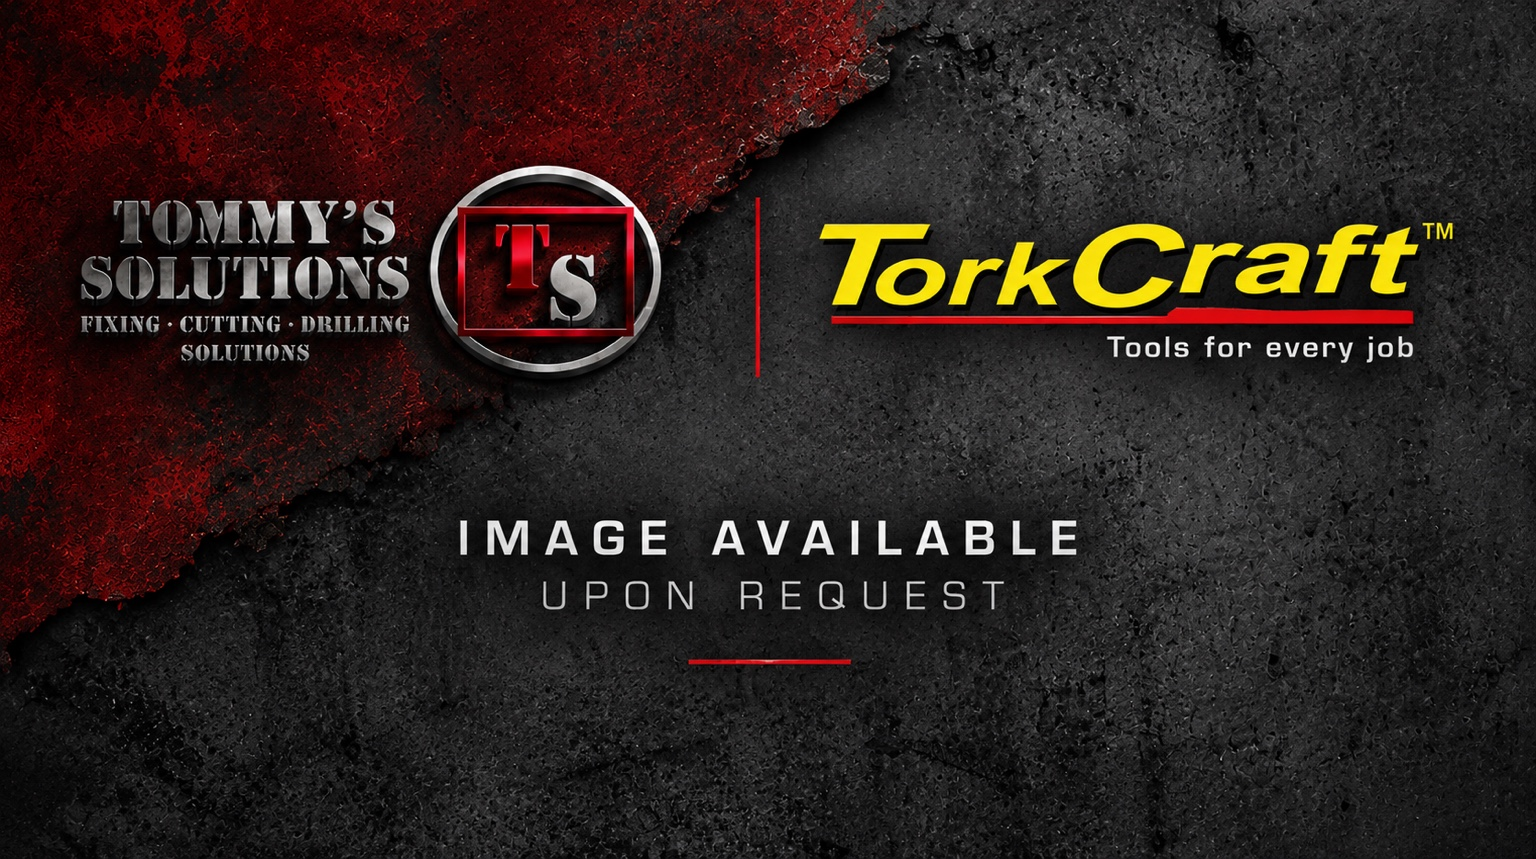
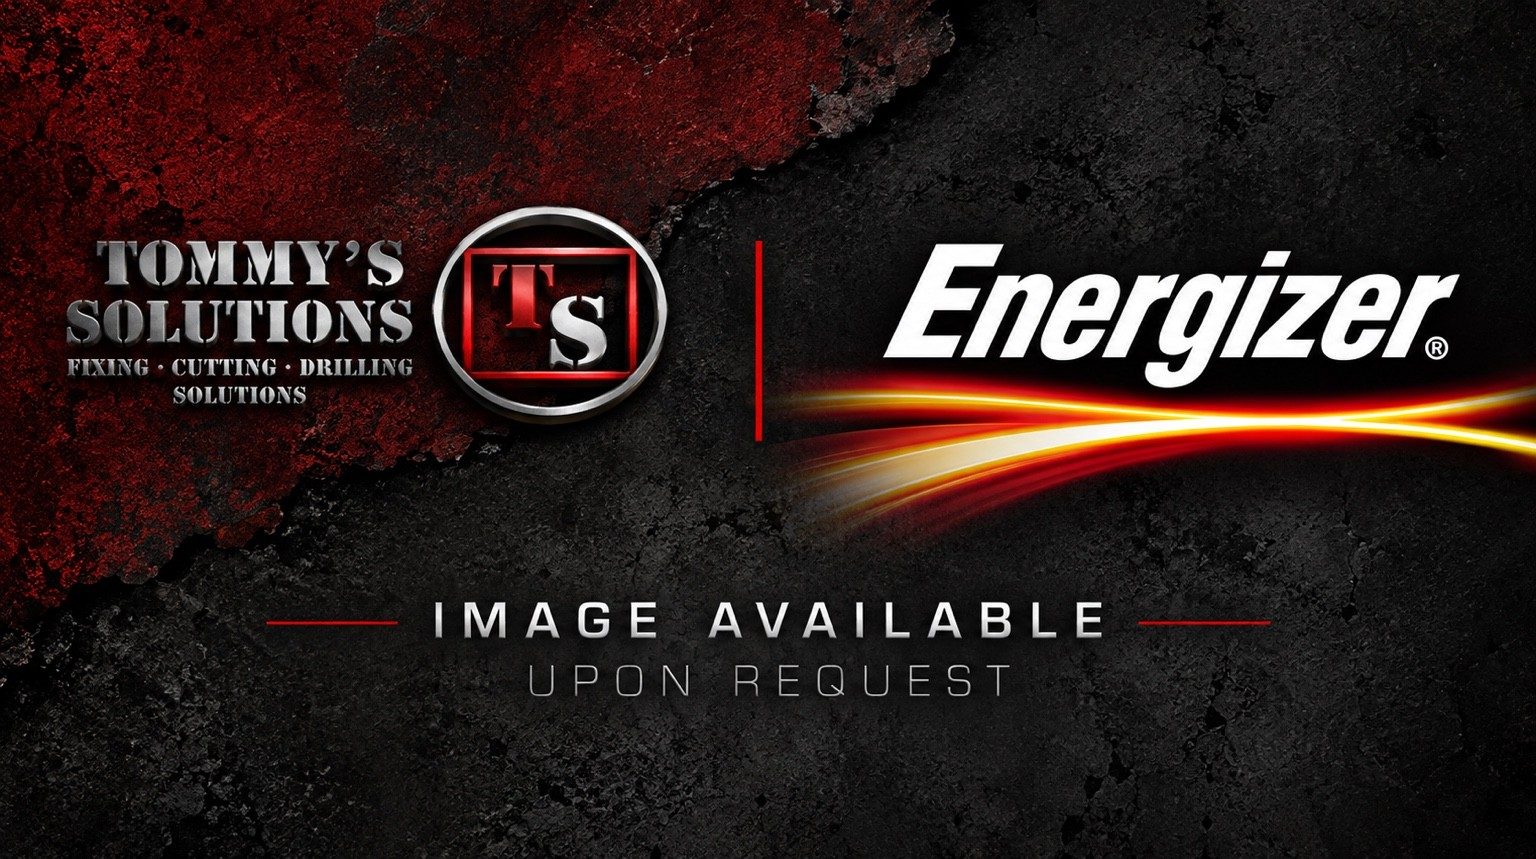
Add files via upload

diff --git a/index.html b/index.html
@@ -109,7 +109,7 @@ section{padding:90px 7%}.section-head{max-width:780px;margin-bottom:34px}h2{font
 
 <section id="catalogue" class="catalogue">
   <div class="section-head"><div class="eyebrow">Tork Craft 2026 catalogue</div><h2>Browse the <span>range</span></h2><p>Browse the Tork Craft 2026 catalogue. Search by product code, product family or specification, then enquire directly with Wian. No prices are shown.</p></div>
-  <div class="catalogue-switch" role="tablist"><button class="catalogue-tab active" data-brand="tork">TORK CRAFT <span>2026</span></button><button class="catalogue-tab" data-brand="energizer">ENERGIZER <span>2021</span></button></div><div class="catalogue-info"><strong id="catalogueTitle">5,000+ catalogue references</strong><span id="catalogueSubtitle">Search Tork Craft by product code, size or product family.</span></div>
+  <div class="catalogue-switch" role="tablist"><button class="catalogue-tab active" data-brand="tork">TORK CRAFT <span>2026</span></button><button class="catalogue-tab" data-brand="energizer">ENERGIZER <span>2021</span></button><button class="catalogue-tab" data-brand="howard">HOWARD <span>CATALOGUE</span></button></div><div class="catalogue-info"><strong id="catalogueTitle">5,000+ catalogue references</strong><span id="catalogueSubtitle">Search Tork Craft by product code, size or product family.</span></div>
   <div class="toolbar">
     <input class="search" id="search" type="search" placeholder="Search product code, size or description…" autocomplete="off">
     <select class="filter" id="filter"><option value="All">All categories</option></select>
@@ -122,7 +122,7 @@ section{padding:90px 7%}.section-head{max-width:780px;margin-bottom:34px}h2{font
 
 <section id="brands" class="brands">
   <div class="section-head"><div class="eyebrow">Brands & partners</div><h2>Brands you can <span>trust</span></h2><p>We can expand this section with your official brand logos and additional partner ranges.</p></div>
-  <div class="brands-row"><div class="brand">TORKCRAFT</div><div class="brand">ENERGIZER</div><div class="brand">FISCHER</div><div class="brand">AVLOCK</div></div>
+  <div class="brands-row"><div class="brand">TORKCRAFT</div><div class="brand">ENERGIZER</div><div class="brand">HOWARD</div><div class="brand">FISCHER</div><div class="brand">AVLOCK</div></div>
 </section>
 
 <section id="about" class="about">
@@ -159,7 +159,7 @@ const catalogueNote=document.getElementById('catalogueNote');
 
 function esc(v){return String(v??'').replace(/[&<>'"]/g,c=>({'&':'&amp;','<':'&lt;','>':'&gt;',"'":'&#39;','"':'&quot;'}[c]));}
 function productName(item){
-  if(activeBrand==='energizer') return item.product || item.description || 'Energizer Product';
+  if(activeBrand==='energizer' || activeBrand==='howard') return item.product || item.description || (activeBrand==='howard'?'Howard Product':'Energizer Product');
   const raw=String(item.specs || item.description || item.family || 'Tork Craft Product').trim();
   const code=String(item.code || '').trim();
   const cleaned=raw.replace(new RegExp('^'+code.replace(/[.*+?^${}()|[\]\\]/g,'\\$&')+'\\s*[-:]*\\s*','i'),'').trim();
@@ -183,12 +183,13 @@ function render(){
   count.textContent=total ? `Showing ${(currentPage-1)*perPage+1}–${Math.min(currentPage*perPage,total)} of ${total} products` : 'No products found';
   products.innerHTML=slice.map(item=>{
     const isE=activeBrand==='energizer';
-    const img=isE ? 'energizer-placeholder.jpg' : 'torkcraft-placeholder.jpg';
+    const isH=activeBrand==='howard';
+    const img=isE ? 'energizer-placeholder.jpg' : (isH ? 'howard-placeholder.jpg' : 'torkcraft-placeholder.jpg');
     const specs=item.specs || 'See catalogue for specifications';
     const code=item.code || '';
     return `<article class="product">
-      <div class="product-top"><span class="badge">${esc(isE?'ENERGIZER':(item.family||'TORK CRAFT'))}</span><span class="ref">#${esc(code)}</span></div>
-      <div class="product-photo ${isE?'energizer-photo':''}"><img loading="lazy" src="${img}" alt="${esc(isE?'Energizer image available upon request':'Tork Craft image available upon request')}" onerror="this.style.display='none';this.parentElement.classList.add('no-photo')"></div>
+      <div class="product-top"><span class="badge">${esc(isE?'ENERGIZER':(isH?'HOWARD':(item.family||'TORK CRAFT')))}</span><span class="ref">#${esc(code)}</span></div>
+      <div class="product-photo ${isE?'energizer-photo':(isH?'howard-photo':'')}"><img loading="lazy" src="${img}" alt="${esc(isE?'Energizer image available upon request':(isH?'Howard image available upon request':'Tork Craft image available upon request'))}" onerror="this.style.display='none';this.parentElement.classList.add('no-photo')"></div>
       <div class="product-body">
         <h3>${esc(productName(item))}</h3>
         <p class="size"><strong>Part No.:</strong> ${esc(code)}${item.ean ? ' • EAN '+esc(item.ean) : ''}${specs ? ' • '+esc(specs) : ''}</p>
@@ -222,6 +223,10 @@ function switchBrand(brand){
     catalogueTitle.textContent=`${catalogues.energizer.length} catalogue references`;
     catalogueSubtitle.textContent='Search Energizer by product code, EAN, battery type, light or category.';
     catalogueNote.textContent='Product information is based on the supplied Energizer January 2021 catalogue. Prices and stock levels are intentionally not displayed. One consistent Energizer placeholder is used instead of incorrect catalogue-page images.';
+  }else if(brand==='howard'){
+    catalogueTitle.textContent=`${catalogues.howard.length} catalogue references`;
+    catalogueSubtitle.textContent='Search Howard by product code, product family or specification.';
+    catalogueNote.textContent='Product information is based on the supplied Howard catalogue. Prices and stock levels are intentionally not displayed. One consistent Howard placeholder is used instead of incorrect catalogue-page images.';
   }else{
     catalogueTitle.textContent='5,000+ catalogue references';
     catalogueSubtitle.textContent='Search Tork Craft by product code, size or product family.';
@@ -233,9 +238,10 @@ document.querySelectorAll('.catalogue-tab').forEach(b=>b.addEventListener('click
 
 Promise.all([
   fetch('torkcraft-products.json').then(r=>r.json()),
-  fetch('energizer-products.json').then(r=>r.json())
-]).then(([tork,energizer])=>{
-  catalogues={tork,energizer};
+  fetch('energizer-products.json').then(r=>r.json()),
+  fetch('howard-products.json').then(r=>r.json())
+]).then(([tork,energizer,howard])=>{
+  catalogues={tork,energizer,howard};
   switchBrand('tork');
 }).catch(()=>{
   count.textContent='Catalogue could not be loaded. Please refresh the page.';
